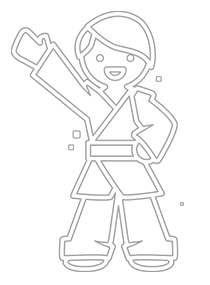
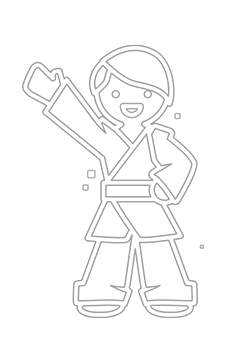
Updated kano-tutorial

Changed region(s): [[0.0286, 0.0281, 0.8571, 0.9544], [0.8286, 0.7018, 0.8857, 0.7298]]

diff --git a/kano_tutorial/drag_and_drop.py b/kano_tutorial/drag_and_drop.py
@@ -20,8 +20,8 @@ from kano_tutorial.tutorial_template import TutorialTemplate
 from kano_tutorial.paths import media_dir
 from kano.logging import logger
 
-data_3 = get_data(3)
-data_4 = get_data(4)
+data_5 = get_data(5)
+data_6 = get_data(6)
 
 
 class Judoka(Gtk.EventBox):
@@ -31,11 +31,11 @@ class Judoka(Gtk.EventBox):
 
         self.get_style_context().add_class("drag_source")
 
-        label1_text = data_3["LABEL_1"]
-        label2_text = data_3["LABEL_2"]
-        img_filename = os.path.join(media_dir, data_3["WORD_JUDOKA_FILENAME"])
-        drag_icon_filename = os.path.join(media_dir, data_3["DRAGGING_JUDOKA_FILENAME"])
-        drag_bg_filename = os.path.join(media_dir, data_3["DRAGGING_BG_FILENAME"])
+        label1_text = data_5["LABEL_1"]
+        label2_text = data_5["LABEL_2"]
+        img_filename = os.path.join(media_dir, data_5["WORD_JUDOKA_FILENAME"])
+        drag_icon_filename = os.path.join(media_dir, data_5["DRAGGING_JUDOKA_FILENAME"])
+        drag_bg_filename = os.path.join(media_dir, data_5["DRAGGING_BG_FILENAME"])
 
         self.width = Gdk.Screen.width() / 2
         self.height = Gdk.Screen.height() / 2
@@ -48,21 +48,24 @@ class Judoka(Gtk.EventBox):
         self.bg_image = Gtk.Image()
         self.bg_image.set_from_file(drag_bg_filename)
 
-        # Mimic dimensions of the image so when the image is hidden, event box does not change size
-        self.eventbox.set_size_request(210, 280)
-        self.align = Gtk.Alignment()
-        self.align.add(self.eventbox)
-        self.align.set_padding(70, 40, 0, 0)
-
         self.label1 = Gtk.Label(label1_text)
         self.label1.get_style_context().add_class("drag_source_label")
         self.label2 = Gtk.Label(label2_text)
         self.label2.get_style_context().add_class("drag_source_label_bold")
 
+        # Mimic dimensions of the image so when the image is hidden, event box does not change size
+        self.eventbox.set_size_request(291, 350)
+
+        box = Gtk.Box(orientation=Gtk.Orientation.VERTICAL, spacing=5)
+        box.pack_start(self.eventbox, False, False, 0)
+        box.pack_start(self.label1, False, False, 0)
+        box.pack_start(self.label2, False, False, 0)
+
+        self.align = Gtk.Alignment(xscale=0, yscale=0, xalign=0.5, yalign=0.5)
+        self.align.add(box)
+
         self.box = Gtk.Box(orientation=Gtk.Orientation.VERTICAL)
-        self.box.pack_start(self.align, False, False, 0)
-        self.box.pack_start(self.label1, False, False, 0)
-        self.box.pack_start(self.label2, False, False, 0)
+        self.box.pack_start(self.align, True, True, 0)
         self.add(self.box)
 
         self.eventbox.drag_source_set(Gdk.ModifierType.BUTTON1_MASK, [], Gdk.DragAction.ASK)
@@ -84,9 +87,7 @@ class Judoka(Gtk.EventBox):
 
         # (120, 90) refers to where the cursor relative to the drag icon
         Gtk.drag_set_icon_pixbuf(drag_context, self.pixbuf, 100, 20)
-        #self.image.set_visible(False)
         self.eventbox.remove(self.image)
-        self.align.set_padding(30, 10, 0, 0)
         self.eventbox.add(self.bg_image)
         self.eventbox.show_all()
 
@@ -102,7 +103,6 @@ class Judoka(Gtk.EventBox):
         logger.info("Drag ended")
         self.eventbox.remove(self.bg_image)
         self.eventbox.add(self.image)
-        self.align.set_padding(70, 40, 0, 0)
         self.eventbox.show_all()
 
     def on_drag_delete(self, widget, event):
@@ -123,9 +123,10 @@ class DropArea(Gtk.Button):
         self.height = Gdk.Screen.height() / 2
         self.set_size_request(self.width, self.height)
 
-        label1_text = data_4["LABEL_1"]
-        label2_text = data_4["LABEL_2"]
-        colour_judoka_filename = os.path.join(media_dir, data_4["COLOUR_JUDOKA_FILENAME"])
+        label1_text = data_6["LABEL_1"]
+        label2_text = data_6["LABEL_2"]
+        colour_judoka_filename = os.path.join(media_dir, data_6["COLOUR_JUDOKA_FILENAME"])
+        target_filename = os.path.join(media_dir, data_6["TARGET_FILENAME"])
 
         self.drag_dest_set(Gtk.DestDefaults.ALL, [], Gdk.DragAction.ASK)
         targets = Gtk.TargetList.new([])
@@ -134,26 +135,38 @@ class DropArea(Gtk.Button):
 
         self.connect("drag-data-received", self.on_drag_data_received)
 
-        self.image = Gtk.Image()
-        self.image.set_from_file(colour_judoka_filename)
-        align = Gtk.Alignment()
-        align.add(self.image)
-        align.set_padding(30, 0, 0, 0)
+        self.colour_judoka_image = Gtk.Image()
+        self.colour_judoka_image.set_from_file(colour_judoka_filename)
+
+        self.bullseye = Gtk.Image()
+        self.bullseye.set_from_file(target_filename)
+
+        self.fixed = Gtk.Fixed()
+        self.fixed.put(self.bullseye, 0, 0)
+        self.fixed.put(self.colour_judoka_image, 0, 0)
+
+        #align.set_padding(30, 0, 0, 0)
 
         self.label1 = Gtk.Label(label1_text)
         self.label1.get_style_context().add_class("drag_dest_label")
         self.label2 = Gtk.Label(label2_text)
         self.label2.get_style_context().add_class("drag_dest_label_bold")
 
+        box = Gtk.Box(orientation=Gtk.Orientation.VERTICAL)
+        box.pack_start(self.fixed, False, False, 0)
+        box.pack_start(self.label1, False, False, 0)
+        box.pack_start(self.label2, False, False, 0)
+
+        align = Gtk.Alignment(xscale=0, yscale=0, xalign=0.5, yalign=0.5)
+        align.add(box)
+
         self.box = Gtk.Box(orientation=Gtk.Orientation.VERTICAL)
-        self.box.pack_start(align, False, False, 0)
-        self.box.pack_start(self.label1, False, False, 0)
-        self.box.pack_start(self.label2, False, False, 0)
+        self.box.pack_start(align, True, True, 0)
 
         self.add(self.box)
 
     def hide_image_labels(self):
-        self.image.hide()
+        self.colour_judoka_image.hide()
         self.label1.hide()
         self.label2.hide()
 
@@ -161,7 +174,7 @@ class DropArea(Gtk.Button):
         logger.info("Drop area has recieved data")
 
         if info == 2:
-            self.image.show()
+            self.colour_judoka_image.show()
             self.label1.show()
             self.label2.show()
             drag_context.finish(True, True, time)
@@ -169,7 +182,7 @@ class DropArea(Gtk.Button):
             # Hacky: get top level window to change keyboard image
             win = self.get_toplevel()
             template = win.get_children()[0]
-            template.set_from_level(4)
+            template.set_from_level(6)
 
             self.connect("key-release-event", self.close_application)
             self.grab_focus()
@@ -186,7 +199,7 @@ class DropArea(Gtk.Button):
 class DragAndDrop(TutorialTemplate):
 
     def __init__(self, win):
-        TutorialTemplate.__init__(self, 3)
+        TutorialTemplate.__init__(self, 5)
 
         self.win = win
         self.drop_area = DropArea()

diff --git a/kano_tutorial/screens.py b/kano_tutorial/screens.py
@@ -32,35 +32,33 @@ class ButtonTemplate(Gtk.Button):
         self.set_size_request(self.width, self.height)
 
         # Container for the elements in the box
-        self.box = Gtk.Box(orientation=Gtk.Orientation.VERTICAL)
+
         self.image = Gtk.Image()
-        align_image = Gtk.Alignment()
-        align_image.set_padding(40, 10, 0, 0)
-        align_image.add(self.image)
+
         self.label1 = Gtk.Label()
         self.label1.get_style_context().add_class("drag_source_label")
         self.label2 = Gtk.Label()
-        self.label2.get_style_context().add_class("drag_source_label")
-        self.label3 = Gtk.Label()
-        self.label3.get_style_context().add_class("drag_source_label_bold")
+        self.label2.get_style_context().add_class("drag_source_label_bold")
 
-        self.box.pack_start(align_image, False, False, 0)
+        self.box = Gtk.Box(orientation=Gtk.Orientation.VERTICAL, spacing=5)
+        self.box.pack_start(self.image, False, False, 0)
         self.box.pack_start(self.label1, False, False, 0)
         self.box.pack_start(self.label2, False, False, 0)
-        self.box.pack_start(self.label3, False, False, 0)
 
-        self.add(self.box)
+        align = Gtk.Alignment(xscale=0, yscale=0, xalign=0.5, yalign=0.5)
+        align.add(self.box)
+        align.set_size_request(self.width, self.height)
+
+        self.add(align)
 
     def set_level(self, level):
         data = get_data(level)
         filename = os.path.join(media_dir, data["JUDOKA_FILENAME"])
         label1_text = data["LABEL_1"]
         label2_text = data["LABEL_2"]
-        label3_text = data["LABEL_3"]
         self.image.set_from_file(filename)
         self.label1.set_text(label1_text)
         self.label2.set_text(label2_text)
-        self.label3.set_text(label3_text)
 
 
 class Screen1(TutorialTemplate):
@@ -72,14 +70,16 @@ class Screen1(TutorialTemplate):
 
         top = ButtonTemplate()
         top.set_level(1)
-        top.connect("button-release-event", self.next)
+        top.connect("key-release-event", self.next)
 
         self.box.pack_start(top, False, False, 0)
         self.win.show_all()
 
     def next(self, widget, event):
-        self.win.clear_win()
-        Screen2(self.win)
+        keyname = Gdk.keyval_name(event.keyval)
+        if keyname == "Tab":
+            self.win.clear_win()
+            Screen2(self.win)
 
 
 class Screen2(TutorialTemplate):
@@ -98,7 +98,49 @@ class Screen2(TutorialTemplate):
         self.win.show_all()
 
     def next(self, widget, event):
-        # if ENTER key is pressed
-        if event.keyval == 65293:
+        keyname = Gdk.keyval_name(event.keyval)
+        if keyname == "Return":
+            self.win.clear_win()
+            Screen3(self.win)
+
+
+class Screen3(TutorialTemplate):
+    def __init__(self, win):
+        TutorialTemplate.__init__(self, 3)
+
+        self.win = win
+        self.win.add(self)
+
+        top = ButtonTemplate()
+        top.set_level(3)
+        top.connect("button-release-event", self.next)
+
+        self.box.pack_start(top, False, False, 0)
+        self.win.show_all()
+
+    def next(self, widget, event):
+        self.win.clear_win()
+        Screen4(self.win)
+
+
+class Screen4(TutorialTemplate):
+    def __init__(self, win):
+        TutorialTemplate.__init__(self, 4)
+
+        self.win = win
+        self.win.add(self)
+
+        top = ButtonTemplate()
+        top.set_level(4)
+        top.connect("key-release-event", self.next)
+
+        self.box.add(top)
+        top.grab_focus()
+        self.win.show_all()
+
+    def next(self, widget, event):
+        keyname = Gdk.keyval_name(event.keyval)
+        if keyname == "Return":
             self.win.clear_win()
             DragAndDrop(self.win)
+
